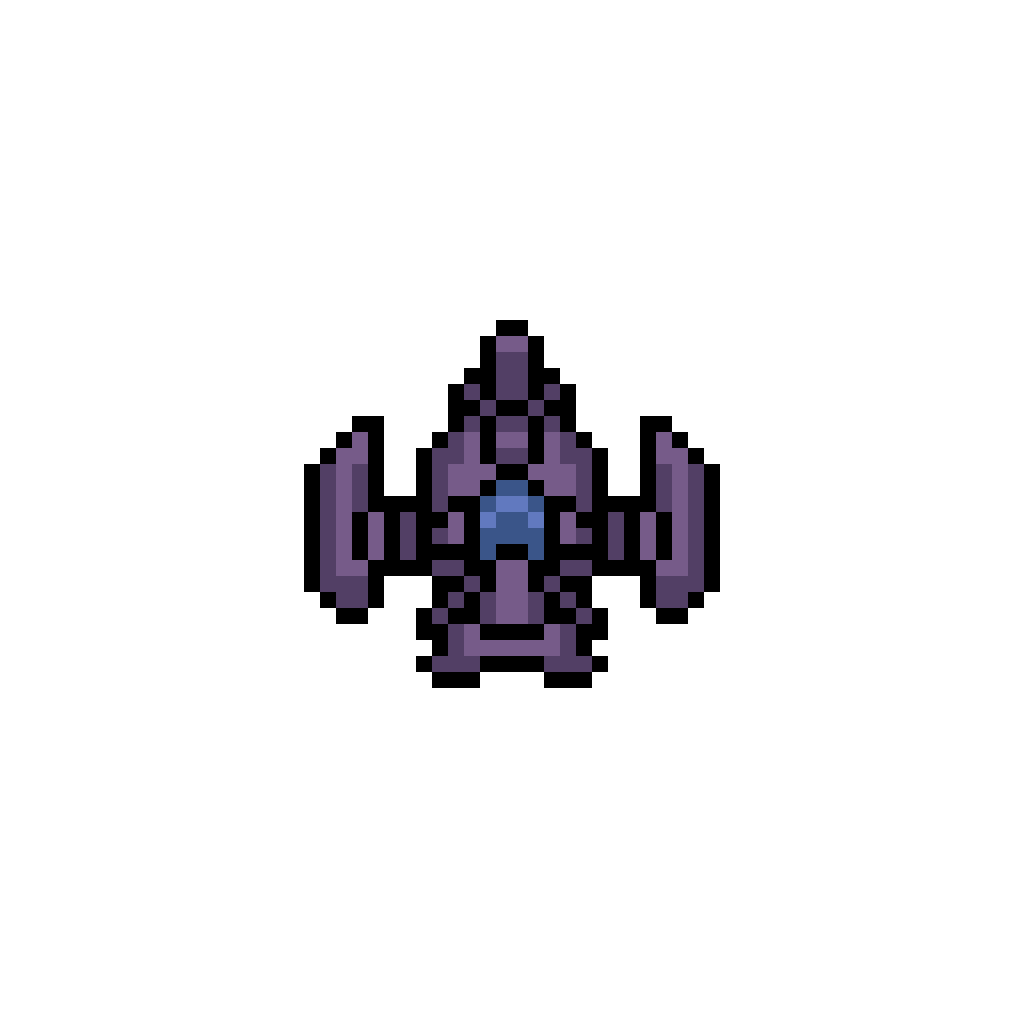
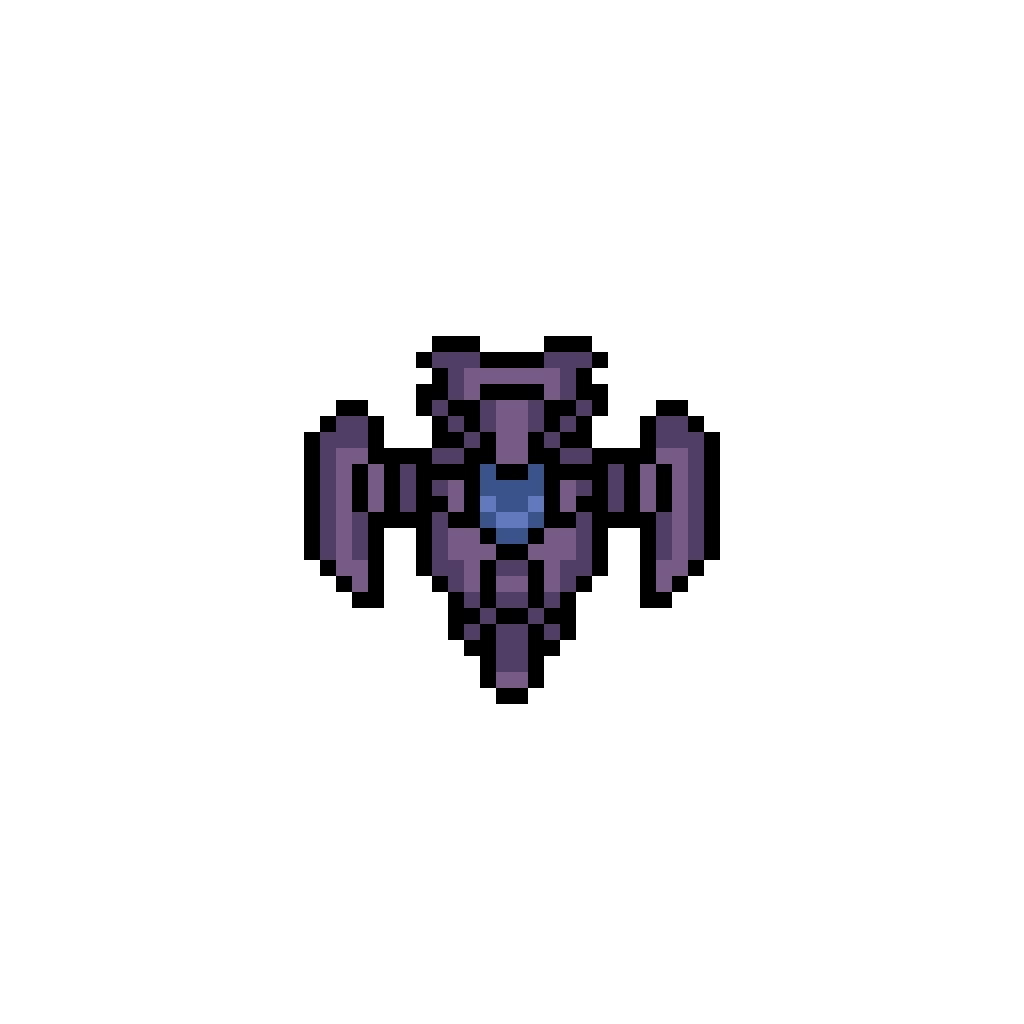
ca marche

Changed region(s): [[0.2812, 0.3125, 0.7188, 0.6875]]

diff --git a/ShootEmUp/Assets.c b/ShootEmUp/Assets.c
@@ -42,6 +42,7 @@ Assets *Assets_New(SDL_Renderer *renderer)
         { &self->fighter1,       "../Assets/Enemy/Enemy1.png"         },
         { &self->fighter2,       "../Assets/Enemy/Enemy2.png"         },
         { &self->fighter3,       "../Assets/Enemy/Enemy3.png"         },
+        { &self->fighter4,       "../Assets/Enemy/AndromedaRangerCaptain.png"         },
         { &self->fighterBullet, "../Assets/Enemy/fighter_bullet.png"  },
         { &self->player, "../Assets/Player/P-red-a.png"               },
         { &self->MenuQuit, "../Assets/Menu/quit2.png"                 },

diff --git a/ShootEmUp/Scene.c b/ShootEmUp/Scene.c
@@ -73,6 +73,17 @@ void Scene_UpdateLevel(Scene *self)
 
         self->waveIdx++;
     }
+    else if (self->waveIdx == 3)
+    {
+        Enemy* enemy = Enemy_New(self, ENEMY_FIGHTER_4, Vec2_Set(12.0f, 4.5f));
+        Scene_AppendEnemy(self, enemy);
+        self->waveIdx++;
+        Enemy* enemy_1 = Enemy_New(self, ENEMY_FIGHTER_2, Vec2_Set(13.0f, 7.5f));
+        Scene_AppendEnemy(self, enemy_1);
+
+        Enemy* enemy_2 = Enemy_New(self, ENEMY_FIGHTER_2, Vec2_Set(13.0f, 3.5f));
+        Scene_AppendEnemy(self, enemy_2);
+    }
 }
 
 bool Scene_Update(Scene *self)

diff --git a/ShootEmUp/Assets.h b/ShootEmUp/Assets.h
@@ -19,6 +19,7 @@ typedef struct Assets_s
     SDL_Texture *fighter1;
     SDL_Texture* fighter2;
     SDL_Texture* fighter3;
+    SDL_Texture* fighter4;
 
     /// @brief Texture du tir d'un ennemi.
     SDL_Texture *fighterBullet;
